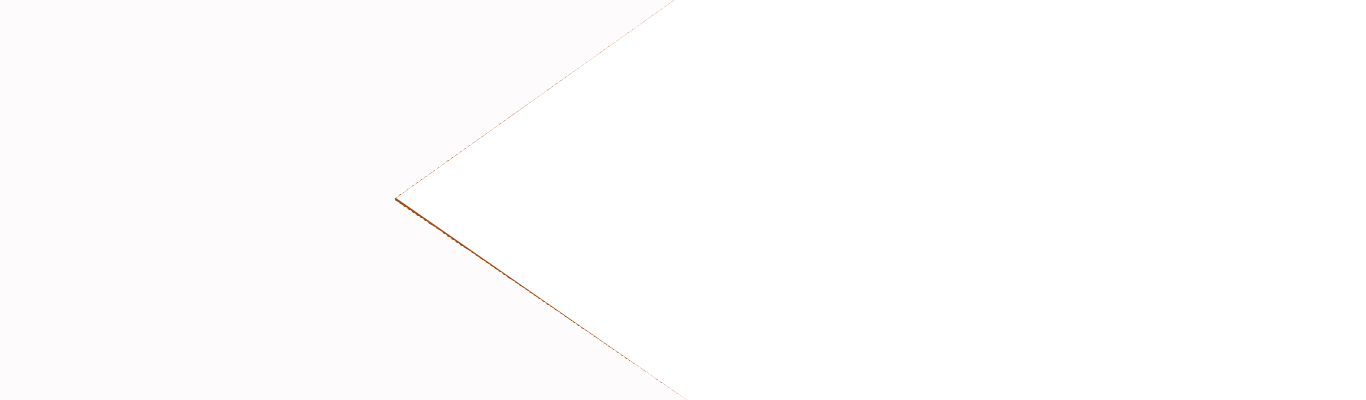
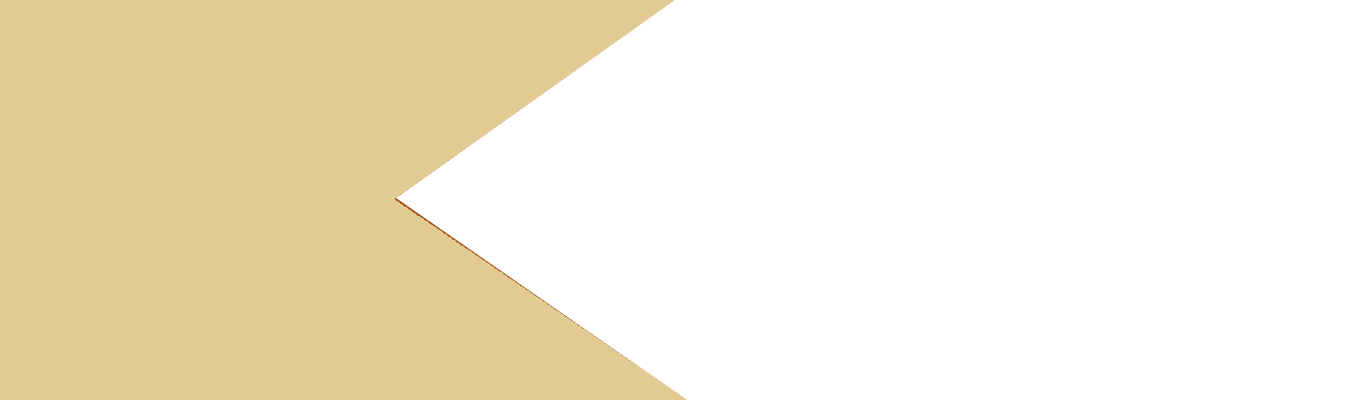
color eventos

diff --git a/css/estilos_eventos.css b/css/estilos_eventos.css
@@ -194,7 +194,50 @@ header{
 /***********************************
 ABAJO VA EL CONTENIDO DE LA PAGINA
 ************************************/
+#bienvenidos{
+	display: block;
+	margin-top: 400px;
+	padding:0;
+	background-color: #e2cb92;
+	width: 100%;
+	height: 500px;
+	overflow: hidden;
+	text-align: center;
+}
 
+#contenido{
+	margin-top: 9%;
+	margin-right:2%;
+	margin-left:2%;
+	float:left;
+	width: 90%;
+}
+#contenido h1{
+	font-size: 35px;
+	letter-spacing: 1px;
+}
+#contenido{
+	font-size: 20px;
+	letter-spacing: 2px;
+	text-align: center;
+}
+#guion{
+	display: block;
+	position: relative;
+	letter-spacing: .1px;
+	color:black;
+	padding:0;
+	margin:0;
+	
+	transform : rotate(90deg);
+	-moz-transform : rotate(90deg); /* Firefox */
+	-webkit-transform : rotate(90deg); /* Chrome - Safari */
+	-o-transform : rotate(90deg); /* Opera */
+
+	-webkit-transition: bottom 2s;
+	-moz-transition: bottom 2s;
+	-o-transition: bottom 2s;
+}
 #eventos_izquierda{
 	background: url(../img/flechaizquierda.png)    no-repeat;
 }
@@ -204,7 +247,7 @@ ABAJO VA EL CONTENIDO DE LA PAGINA
 #eventos_izquierda,#eventos_izquierda11, #eventos_derecha,#eventos_derecha21{
 	background-size: 100% 100%;
 	float:left;
-	background-color: #fff;
+	background-color: #e2cb92;
 	overflow: hidden;
 	width: 100%;
 	height: 400px;
@@ -228,7 +271,7 @@ ABAJO VA EL CONTENIDO DE LA PAGINA
 	-o-transition: opacity 1s;
 }
 .eventos_izquierda_home{
-	margin-top: 400px;
+	/*margin-top: 400px;*/
 }
 
 .eventos_izquierda_final{
@@ -288,7 +331,7 @@ ABAJO VA EL CONTENIDO DE LA PAGINA
 
 /*DERECHA*/
 #eventos_derecha,#eventos_derecha21{
-	background-color: #a34b11;
+	background-color: #402e00;
 }
 .blancoderecha, .blancoderecha21{
 	position: absolute;

diff --git a/Eventos.html b/Eventos.html
@@ -146,6 +146,23 @@
 
 
 <!--AQUI VA TODO EL CONTENIDO DE ESTA SECCION, HASTA ANTES DEL FOOTER...-->
+	
+	<section id="bienvenidos">
+		<div id="contenido">
+			<h1>
+				Eventos de relevancia
+			</h1>
+				<p>
+					Lorem ipsum dolor sit amet, consectetur adipisicing elit. Eos aliquam tempore aut architecto atque a, doloribus porro ad, est enim eius? Ex facere provident possimus beatae ipsa aperiam dolorum voluptas.
+
+				</p>
+		</div>
+			
+		</div>
+
+	</section>
+	<hr id ="hr1">
+
 	<section id="eventos_izquierda" class="eventos_izquierda_home">
 
 		<div id="cont">
@@ -167,7 +184,7 @@
 
 		</div>
 	</section>
-	<hr id ="hr1">
+
 
 <hr id="separador">
 
